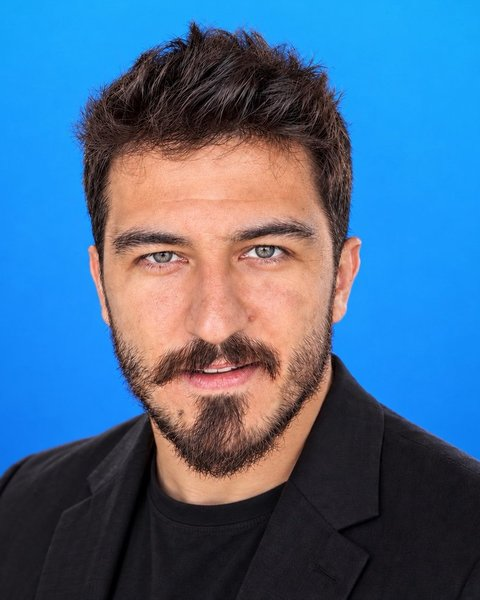
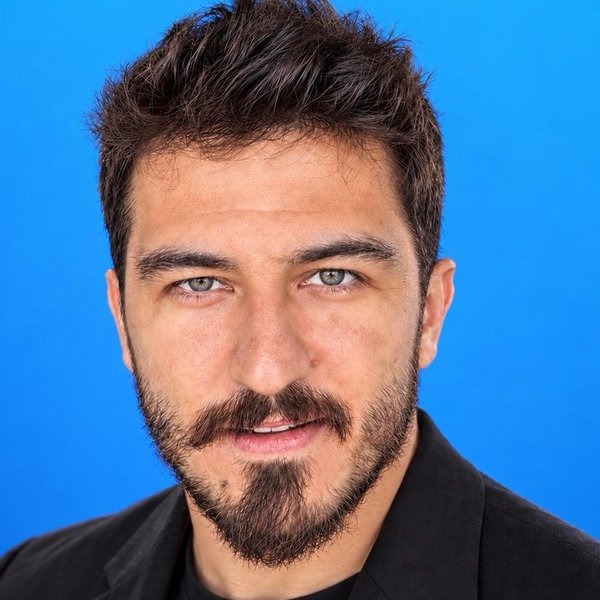
Academy: Cəfər Nəcəfovun kursu — ulduz formalı foto, ad və kurs mətni (AZ/EN)
Claude-Session: https://claude.ai/code/session_012qHs8kvniUjVjktTYL2tXd

diff --git a/en/index.html b/en/index.html
@@ -503,10 +503,12 @@ section.band{padding-block:clamp(64px,8vw,112px)}
 .aslide.is-on{animation:asIn .55s cubic-bezier(.2,.8,.2,1) both}
 @keyframes asIn{from{opacity:0;transform:translateX(18px)}to{opacity:1;transform:none}}
 @media (prefers-reduced-motion:reduce){.aslide.is-on{animation:none}}
-.aph{margin:0 0 22px;width:clamp(120px,14vw,160px);aspect-ratio:4/5;border-radius:20px;overflow:hidden;background:#D6D0C6}
-.aph img{width:100%;height:100%;object-fit:cover;display:block;filter:grayscale(1)}
-.aph.empty img{display:none}
-.aname{font:400 20px var(--display);margin-top:10px}
+.atr{display:flex;align-items:center;gap:18px;margin:18px 0 26px}
+.astar{margin:0;width:clamp(120px,12vw,150px);aspect-ratio:1;flex:none;clip-path:polygon(50.0% 4.0%,65.9% 32.2%,97.6% 38.5%,75.7% 62.3%,79.4% 94.5%,50.0% 81.0%,20.6% 94.5%,24.3% 62.3%,2.4% 38.5%,34.1% 32.2%);background:#D6D0C6}
+.astar img{width:100%;height:100%;object-fit:cover;display:block;filter:grayscale(1)}
+.atr-n{display:block;font:400 clamp(22px,2.2vw,28px)/1.15 var(--display);letter-spacing:-.02em}
+.atr-r{display:block;font-size:14px;color:var(--muted);margin-top:4px}
+.academy .h2c{font-size:clamp(30px,3.4vw,44px);line-height:1.08}
 .anav{display:flex;align-items:center;gap:10px;margin-top:clamp(28px,4vw,44px);padding-top:18px;border-top:1px solid var(--rule)}
 .acount{font:400 14px var(--display);color:var(--muted);letter-spacing:.04em}
 .acount b{color:var(--ink);font-weight:500}
@@ -672,12 +674,11 @@ footer{background:var(--night);color:#8A8A8A;padding-block:clamp(20px,2.5vw,32px
       <div class="aslide is-on" id="as-cn" role="group" aria-roledescription="slide" aria-label="1 / 2">
       <div class="agrid">
         <div class="aintro">
-          <figure class="aph"><img src="/img/academy/cefer-necefov.jpg" alt="Cəfər Nəcəfov" width="160" height="200" loading="lazy" onerror="this.parentNode.classList.add('empty')"></figure>
           <p class="kicker" data-i="cn.k">Blogstar Academy · Fərdi təlim</p>
-          <h2 class="h2" id="at-cn">Cəfər Nəcəfov</h2>
-          <p class="aname" data-i="cn.t">[Kursun adı]</p>
-          <p class="alead" data-i="cn.lead">[Kursun qısa təsviri]</p>
-          <ul class="afmt"><li data-i="cn.f1">[Format]</li><li data-i="cn.f2">[Müddət]</li><li data-i="cn.f3">[Məkan]</li></ul>
+          <div class="atr"><figure class="astar"><img src="/img/academy/cefer-necefov.jpg" alt="Cəfər Nəcəfov" width="600" height="600" loading="lazy"></figure><div><b class="atr-n">Cəfər Nəcəfov</b><span class="atr-r" data-i="cn.r">Təlimçi</span></div></div>
+          <h2 class="h2 h2c" id="at-cn" data-i="cn.t">Instagramın sirləri: alqoritm, alətlər və süni intellekt</h2>
+          <p class="alead" data-i="cn.lead">Instagramın işləmə prinsiplərini dərindən öyrədən fərdi təlim. Alqoritmin məntiqi, platformanın az bilinən imkanları və süni intellekt əsaslı alətlərlə kontent hazırlanması praktik nümunələr üzərində izah olunur.</p>
+          <ul class="afmt"><li data-i="cn.f1">Instagram alqoritmi</li><li data-i="cn.f2">AI alətləri</li><li data-i="cn.f3">Platformanın gizli imkanları</li></ul>
         </div>
         <form class="aform" id="acad-cn" name="academy" method="POST" novalidate>
           <input type="hidden" name="form-name" value="academy">
@@ -1456,7 +1457,7 @@ az:{
  "ac.2":"Kontent istehsalı","ac.2t":"Reels üçün ssenari, çəkiliş və montaj",
  "ac.3":"Auditoriya","ac.3t":"Statistikanın təhlili və artım strategiyası",
  "ac.4":"Brendlərlə əməkdaşlıq","ac.4t":"Qiymət təklifi, razılaşma və hesabatlılıq",
- "ac.prog":"Proqramın tam məzmunu","ac.reg":"Qeydiyyat","cn.k":"Blogstar Academy · Fərdi təlim","cn.t":"[Kursun adı]","cn.lead":"[Kursun qısa təsviri]","cn.f1":"[Format]","cn.f2":"[Müddət]","cn.f3":"[Məkan]","cn.regp":"Kursun tarixi və məkanı barədə sizə məlumat veriləcək.","cn.join":"Kursa qoşulun","cn.prev":"Əvvəlki","cn.next":"Növbəti","ac.regp":"Növbəti qrup formalaşdıqda tarix və məkan barədə sizə məlumat veriləcək.","pg.cta":"Qeydiyyatdan keçin","pg.admp":"Seçim iki mərhələdə aparılır: qeydiyyatdan keçən namizədlər birinci turdan sonra müsahibəyə dəvət olunur və müsahibənin nəticəsinə əsasən proqramda iştirak hüququ qazanır. Təlimin ödənişi barədə məlumat müraciət edənlərə fərdi qaydada təqdim edilir.","pg.adm":"Qəbul qaydası","pg.g":["Sosial mediada düzgün mövqe tutmaq", "Planlı və keyfiyyətli kontent yaratmaq", "Auditoriya formalaşdırmaq", "Şəxsi brend qurmaq", "Brendlərlə əməkdaşlıq etmək", "Sosial mediada peşəkar görünmək", "Gəlir əldə etmə mexanizmlərini mənimsəmək"],"pg.gain":"Proqramın nəticəsində","pg.w":["Influencer olmaq istəyənlər", "Sosial mediada aktiv olan, lakin aydın strategiyası olmayanlar", "Şəxsi brend yaratmaq istəyənlər", "Sosial mediadan gəlir əldə etməyi hədəfləyənlər", "Bu sahədə peşəkar inkişaf etmək istəyən hər kəs"],"pg.who":"Proqram kimlər üçündür","pg.c3":"Yerlər məhduddur","pg.c2":"Son qeydiyyat: 29 noyabr","pg.c1":"Müddət: 1,5–2 ay","pg.lead":"Metamorphosis sosial mediada peşəkar inkişaf etmək istəyənlər üçün hazırlanmış modullu təlim proqramıdır. Proqram nəzəri bilikləri və praktik bacarıqları birləşdirir və iştirakçını başlanğıc səviyyədən peşəkar səviyyəyə qədər inkişaf etdirməyi hədəfləyir.","pg.men":"Mentorlar","pg.c0":"6-cı mövsüm","pg.t":"Metamorphosis təlim proqramı","ac.more":"Ətraflı","ac.m8t":"Şəxsi saytın hazırlanması və gəlir əldə etmə modelləri","ac.m8":"Texniki alətlər və gəlir modelləri","ac.m7t":"Səhifənin düzgün idarəsi, mənfi rəylərlə iş və icmanın formalaşdırılması","ac.m7":"Səhifə və icma idarəçiliyi","ac.m6t":"Marketinqin əsasları, reach və engagement göstəricilərinin artırılması","ac.m6":"Rəqəmsal marketinq","ac.m5t":"Brendinqin əsasları, brend qurmağın mərhələləri və vizual kimlik","ac.m5":"Brendinq və şəxsi brend","ac.m4t":"Videoqrafiyanın incəlikləri, detal və food fotoqrafiyası, vizual estetika","ac.m4":"Fotoqrafiya və videoqrafiya","ac.m3t":"Kontentin tərtibi, story formatları və auditoriya ilə bağ qurmaq","ac.m3":"Kontent və storytelling","ac.m2t":"Instagram alqoritmi, məzmun məntiqi və süni intellektdən istifadə","ac.m2":"Alqoritmlər və AI alətləri","ac.m1t":"Influencer fəaliyyətinin formatları; food, fashion və travel istiqamətləri; nişin seçilməsi","ac.m1":"Kontent yaradıcılığının əsasları","ac.join":"Influencer School-a qoşulun","ac.regbtn":"Qeydiyyatdan keçin",
+ "ac.prog":"Proqramın tam məzmunu","ac.reg":"Qeydiyyat","cn.k":"Blogstar Academy · Fərdi təlim","cn.r":"Təlimçi","cn.t":"Instagramın sirləri: alqoritm, alətlər və süni intellekt","cn.lead":"Instagramın işləmə prinsiplərini dərindən öyrədən fərdi təlim. Alqoritmin məntiqi, platformanın az bilinən imkanları və süni intellekt əsaslı alətlərlə kontent hazırlanması praktik nümunələr üzərində izah olunur.","cn.f1":"Instagram alqoritmi","cn.f2":"AI alətləri","cn.f3":"Platformanın gizli imkanları","cn.regp":"Kursun tarixi və məkanı barədə sizə məlumat veriləcək.","cn.join":"Kursa qoşulun","cn.prev":"Əvvəlki","cn.next":"Növbəti","ac.regp":"Növbəti qrup formalaşdıqda tarix və məkan barədə sizə məlumat veriləcək.","pg.cta":"Qeydiyyatdan keçin","pg.admp":"Seçim iki mərhələdə aparılır: qeydiyyatdan keçən namizədlər birinci turdan sonra müsahibəyə dəvət olunur və müsahibənin nəticəsinə əsasən proqramda iştirak hüququ qazanır. Təlimin ödənişi barədə məlumat müraciət edənlərə fərdi qaydada təqdim edilir.","pg.adm":"Qəbul qaydası","pg.g":["Sosial mediada düzgün mövqe tutmaq", "Planlı və keyfiyyətli kontent yaratmaq", "Auditoriya formalaşdırmaq", "Şəxsi brend qurmaq", "Brendlərlə əməkdaşlıq etmək", "Sosial mediada peşəkar görünmək", "Gəlir əldə etmə mexanizmlərini mənimsəmək"],"pg.gain":"Proqramın nəticəsində","pg.w":["Influencer olmaq istəyənlər", "Sosial mediada aktiv olan, lakin aydın strategiyası olmayanlar", "Şəxsi brend yaratmaq istəyənlər", "Sosial mediadan gəlir əldə etməyi hədəfləyənlər", "Bu sahədə peşəkar inkişaf etmək istəyən hər kəs"],"pg.who":"Proqram kimlər üçündür","pg.c3":"Yerlər məhduddur","pg.c2":"Son qeydiyyat: 29 noyabr","pg.c1":"Müddət: 1,5–2 ay","pg.lead":"Metamorphosis sosial mediada peşəkar inkişaf etmək istəyənlər üçün hazırlanmış modullu təlim proqramıdır. Proqram nəzəri bilikləri və praktik bacarıqları birləşdirir və iştirakçını başlanğıc səviyyədən peşəkar səviyyəyə qədər inkişaf etdirməyi hədəfləyir.","pg.men":"Mentorlar","pg.c0":"6-cı mövsüm","pg.t":"Metamorphosis təlim proqramı","ac.more":"Ətraflı","ac.m8t":"Şəxsi saytın hazırlanması və gəlir əldə etmə modelləri","ac.m8":"Texniki alətlər və gəlir modelləri","ac.m7t":"Səhifənin düzgün idarəsi, mənfi rəylərlə iş və icmanın formalaşdırılması","ac.m7":"Səhifə və icma idarəçiliyi","ac.m6t":"Marketinqin əsasları, reach və engagement göstəricilərinin artırılması","ac.m6":"Rəqəmsal marketinq","ac.m5t":"Brendinqin əsasları, brend qurmağın mərhələləri və vizual kimlik","ac.m5":"Brendinq və şəxsi brend","ac.m4t":"Videoqrafiyanın incəlikləri, detal və food fotoqrafiyası, vizual estetika","ac.m4":"Fotoqrafiya və videoqrafiya","ac.m3t":"Kontentin tərtibi, story formatları və auditoriya ilə bağ qurmaq","ac.m3":"Kontent və storytelling","ac.m2t":"Instagram alqoritmi, məzmun məntiqi və süni intellektdən istifadə","ac.m2":"Alqoritmlər və AI alətləri","ac.m1t":"Influencer fəaliyyətinin formatları; food, fashion və travel istiqamətləri; nişin seçilməsi","ac.m1":"Kontent yaradıcılığının əsasları","ac.join":"Influencer School-a qoşulun","ac.regbtn":"Qeydiyyatdan keçin",
  "f.fullname":"Ad və soyad","f.phone":"Telefon","f.exp":"Təcrübəniz","f.trk":"Maraqlandığınız istiqamət","f.trk1":"Tam proqram","f.trk2":"Fotoqrafiya","f.trk3":"Video və montaj","f.trk4":"Süni intellekt alətləri","f.trk5":"Şəxsi brend","f.exp1":"Yeni başlayıram","f.exp2":"Mütəmadi kontent yaradıram","f.exp3":"Brendlərlə əməkdaşlıq edirəm",
  "ct.k":"Əlaqə","ct.h":"Növbəti kampaniyanız <span>buradan başlayır.</span>","ct.copy":"Kopyala","ct.copied":"Kopyalandı","ct.addr":"Bakı, Azərbaycan · onlayn","ct.form":"Kampaniya sorğusu",
  "f.name":"Adınız","f.brand":"Brend","f.contact":"Telefon və ya e-poçt","f.about":"Kampaniya haqqında","f.aboutp":"Məhsul, nəzərdə tutulan tarixlər və təxmini büdcə","f.send":"Sorğunu göndərin",
@@ -1491,7 +1492,7 @@ en:{
  "ac.2":"Content production","ac.2t":"Scripting, filming and editing Reels",
  "ac.3":"Audience","ac.3t":"Analytics and growth strategy",
  "ac.4":"Working with brands","ac.4t":"Pricing, agreements and reporting",
- "ac.prog":"View the full programme","ac.reg":"Registration","cn.k":"Blogstar Academy · Individual course","cn.t":"[Course title]","cn.lead":"[Short course description]","cn.f1":"[Format]","cn.f2":"[Duration]","cn.f3":"[Venue]","cn.regp":"We will contact you with the course date and venue.","cn.join":"Join the course","cn.prev":"Previous","cn.next":"Next","ac.regp":"We will contact you with the date and venue once the next group is formed.","pg.cta":"Register","pg.admp":"Selection takes place in two stages: registered candidates who pass the first round are invited to an interview, and the interview determines admission to the programme. Fee details are provided individually to applicants.","pg.adm":"Admission","pg.g":["A clear position on social media", "Planned, high-quality content", "A growing audience", "A personal brand", "Working with brands", "A professional presence on social media", "An understanding of how to earn income"],"pg.gain":"What you will gain","pg.w":["Aspiring influencers", "People active on social media without a clear strategy", "Those who want to build a personal brand", "Those aiming to earn income from social media", "Anyone who wants to grow professionally in this field"],"pg.who":"Who the programme is for","pg.c3":"Limited places","pg.c2":"Registration closes: 29 November","pg.c1":"Duration: 1.5–2 months","pg.lead":"Metamorphosis is a modular training programme for those who want to grow professionally on social media. It combines theory with practical skills and aims to take participants from beginner to professional level.","pg.men":"Mentors","pg.c0":"Season 6","pg.t":"Metamorphosis training programme","ac.more":"Learn more","ac.m8t":"Building a personal website and models for earning income","ac.m8":"Technical tools and income models","ac.m7t":"Managing a page well, handling negative feedback and building a community","ac.m7":"Page and community management","ac.m6t":"Marketing fundamentals, growing reach and engagement","ac.m6":"Digital marketing","ac.m5t":"Branding fundamentals, the stages of building a brand and visual identity","ac.m5":"Branding and personal brand","ac.m4t":"Videography techniques, detail and food photography, visual aesthetics","ac.m4":"Photography and videography","ac.m3t":"Planning content, story formats and building a bond with the audience","ac.m3":"Content and storytelling","ac.m2t":"The Instagram algorithm, content logic and using AI","ac.m2":"Algorithms and AI tools","ac.m1t":"Influencer formats; food, fashion and travel; choosing a niche","ac.m1":"Foundations of content creation","ac.join":"Join Influencer School","ac.regbtn":"Register",
+ "ac.prog":"View the full programme","ac.reg":"Registration","cn.k":"Blogstar Academy · Individual course","cn.r":"Instructor","cn.t":"Inside Instagram: the algorithm, tools and AI","cn.lead":"An individual course that explains in depth how Instagram works. The logic of the algorithm, the platform's lesser-known features and AI-powered content tools are covered through practical examples.","cn.f1":"Instagram algorithm","cn.f2":"AI tools","cn.f3":"Hidden platform features","cn.regp":"We will contact you with the course date and venue.","cn.join":"Join the course","cn.prev":"Previous","cn.next":"Next","ac.regp":"We will contact you with the date and venue once the next group is formed.","pg.cta":"Register","pg.admp":"Selection takes place in two stages: registered candidates who pass the first round are invited to an interview, and the interview determines admission to the programme. Fee details are provided individually to applicants.","pg.adm":"Admission","pg.g":["A clear position on social media", "Planned, high-quality content", "A growing audience", "A personal brand", "Working with brands", "A professional presence on social media", "An understanding of how to earn income"],"pg.gain":"What you will gain","pg.w":["Aspiring influencers", "People active on social media without a clear strategy", "Those who want to build a personal brand", "Those aiming to earn income from social media", "Anyone who wants to grow professionally in this field"],"pg.who":"Who the programme is for","pg.c3":"Limited places","pg.c2":"Registration closes: 29 November","pg.c1":"Duration: 1.5–2 months","pg.lead":"Metamorphosis is a modular training programme for those who want to grow professionally on social media. It combines theory with practical skills and aims to take participants from beginner to professional level.","pg.men":"Mentors","pg.c0":"Season 6","pg.t":"Metamorphosis training programme","ac.more":"Learn more","ac.m8t":"Building a personal website and models for earning income","ac.m8":"Technical tools and income models","ac.m7t":"Managing a page well, handling negative feedback and building a community","ac.m7":"Page and community management","ac.m6t":"Marketing fundamentals, growing reach and engagement","ac.m6":"Digital marketing","ac.m5t":"Branding fundamentals, the stages of building a brand and visual identity","ac.m5":"Branding and personal brand","ac.m4t":"Videography techniques, detail and food photography, visual aesthetics","ac.m4":"Photography and videography","ac.m3t":"Planning content, story formats and building a bond with the audience","ac.m3":"Content and storytelling","ac.m2t":"The Instagram algorithm, content logic and using AI","ac.m2":"Algorithms and AI tools","ac.m1t":"Influencer formats; food, fashion and travel; choosing a niche","ac.m1":"Foundations of content creation","ac.join":"Join Influencer School","ac.regbtn":"Register",
  "f.fullname":"Full name","f.phone":"Phone","f.exp":"Your experience","f.trk":"Area of interest","f.trk1":"Full programme","f.trk2":"Photography","f.trk3":"Video and editing","f.trk4":"AI tools","f.trk5":"Personal brand","f.exp1":"I'm just starting out","f.exp2":"I create content regularly","f.exp3":"I already work with brands",
  "ct.k":"Contact","ct.h":"Your next campaign <span>starts here.</span>","ct.copy":"Copy","ct.copied":"Copied","ct.addr":"Baku, Azerbaijan · online","ct.form":"Campaign enquiry",
  "f.name":"Your name","f.brand":"Brand","f.contact":"Phone or email","f.about":"About the campaign","f.aboutp":"Product, preferred dates and estimated budget","f.send":"Send enquiry",

diff --git a/index.html b/index.html
@@ -503,10 +503,12 @@ section.band{padding-block:clamp(64px,8vw,112px)}
 .aslide.is-on{animation:asIn .55s cubic-bezier(.2,.8,.2,1) both}
 @keyframes asIn{from{opacity:0;transform:translateX(18px)}to{opacity:1;transform:none}}
 @media (prefers-reduced-motion:reduce){.aslide.is-on{animation:none}}
-.aph{margin:0 0 22px;width:clamp(120px,14vw,160px);aspect-ratio:4/5;border-radius:20px;overflow:hidden;background:#D6D0C6}
-.aph img{width:100%;height:100%;object-fit:cover;display:block;filter:grayscale(1)}
-.aph.empty img{display:none}
-.aname{font:400 20px var(--display);margin-top:10px}
+.atr{display:flex;align-items:center;gap:18px;margin:18px 0 26px}
+.astar{margin:0;width:clamp(120px,12vw,150px);aspect-ratio:1;flex:none;clip-path:polygon(50.0% 4.0%,65.9% 32.2%,97.6% 38.5%,75.7% 62.3%,79.4% 94.5%,50.0% 81.0%,20.6% 94.5%,24.3% 62.3%,2.4% 38.5%,34.1% 32.2%);background:#D6D0C6}
+.astar img{width:100%;height:100%;object-fit:cover;display:block;filter:grayscale(1)}
+.atr-n{display:block;font:400 clamp(22px,2.2vw,28px)/1.15 var(--display);letter-spacing:-.02em}
+.atr-r{display:block;font-size:14px;color:var(--muted);margin-top:4px}
+.academy .h2c{font-size:clamp(30px,3.4vw,44px);line-height:1.08}
 .anav{display:flex;align-items:center;gap:10px;margin-top:clamp(28px,4vw,44px);padding-top:18px;border-top:1px solid var(--rule)}
 .acount{font:400 14px var(--display);color:var(--muted);letter-spacing:.04em}
 .acount b{color:var(--ink);font-weight:500}
@@ -672,12 +674,11 @@ footer{background:var(--night);color:#8A8A8A;padding-block:clamp(20px,2.5vw,32px
       <div class="aslide is-on" id="as-cn" role="group" aria-roledescription="slide" aria-label="1 / 2">
       <div class="agrid">
         <div class="aintro">
-          <figure class="aph"><img src="/img/academy/cefer-necefov.jpg" alt="Cəfər Nəcəfov" width="160" height="200" loading="lazy" onerror="this.parentNode.classList.add('empty')"></figure>
           <p class="kicker" data-i="cn.k">Blogstar Academy · Fərdi təlim</p>
-          <h2 class="h2" id="at-cn">Cəfər Nəcəfov</h2>
-          <p class="aname" data-i="cn.t">[Kursun adı]</p>
-          <p class="alead" data-i="cn.lead">[Kursun qısa təsviri]</p>
-          <ul class="afmt"><li data-i="cn.f1">[Format]</li><li data-i="cn.f2">[Müddət]</li><li data-i="cn.f3">[Məkan]</li></ul>
+          <div class="atr"><figure class="astar"><img src="/img/academy/cefer-necefov.jpg" alt="Cəfər Nəcəfov" width="600" height="600" loading="lazy"></figure><div><b class="atr-n">Cəfər Nəcəfov</b><span class="atr-r" data-i="cn.r">Təlimçi</span></div></div>
+          <h2 class="h2 h2c" id="at-cn" data-i="cn.t">Instagramın sirləri: alqoritm, alətlər və süni intellekt</h2>
+          <p class="alead" data-i="cn.lead">Instagramın işləmə prinsiplərini dərindən öyrədən fərdi təlim. Alqoritmin məntiqi, platformanın az bilinən imkanları və süni intellekt əsaslı alətlərlə kontent hazırlanması praktik nümunələr üzərində izah olunur.</p>
+          <ul class="afmt"><li data-i="cn.f1">Instagram alqoritmi</li><li data-i="cn.f2">AI alətləri</li><li data-i="cn.f3">Platformanın gizli imkanları</li></ul>
         </div>
         <form class="aform" id="acad-cn" name="academy" method="POST" novalidate>
           <input type="hidden" name="form-name" value="academy">
@@ -1456,7 +1457,7 @@ az:{
  "ac.2":"Kontent istehsalı","ac.2t":"Reels üçün ssenari, çəkiliş və montaj",
  "ac.3":"Auditoriya","ac.3t":"Statistikanın təhlili və artım strategiyası",
  "ac.4":"Brendlərlə əməkdaşlıq","ac.4t":"Qiymət təklifi, razılaşma və hesabatlılıq",
- "ac.prog":"Proqramın tam məzmunu","ac.reg":"Qeydiyyat","cn.k":"Blogstar Academy · Fərdi təlim","cn.t":"[Kursun adı]","cn.lead":"[Kursun qısa təsviri]","cn.f1":"[Format]","cn.f2":"[Müddət]","cn.f3":"[Məkan]","cn.regp":"Kursun tarixi və məkanı barədə sizə məlumat veriləcək.","cn.join":"Kursa qoşulun","cn.prev":"Əvvəlki","cn.next":"Növbəti","ac.regp":"Növbəti qrup formalaşdıqda tarix və məkan barədə sizə məlumat veriləcək.","pg.cta":"Qeydiyyatdan keçin","pg.admp":"Seçim iki mərhələdə aparılır: qeydiyyatdan keçən namizədlər birinci turdan sonra müsahibəyə dəvət olunur və müsahibənin nəticəsinə əsasən proqramda iştirak hüququ qazanır. Təlimin ödənişi barədə məlumat müraciət edənlərə fərdi qaydada təqdim edilir.","pg.adm":"Qəbul qaydası","pg.g":["Sosial mediada düzgün mövqe tutmaq", "Planlı və keyfiyyətli kontent yaratmaq", "Auditoriya formalaşdırmaq", "Şəxsi brend qurmaq", "Brendlərlə əməkdaşlıq etmək", "Sosial mediada peşəkar görünmək", "Gəlir əldə etmə mexanizmlərini mənimsəmək"],"pg.gain":"Proqramın nəticəsində","pg.w":["Influencer olmaq istəyənlər", "Sosial mediada aktiv olan, lakin aydın strategiyası olmayanlar", "Şəxsi brend yaratmaq istəyənlər", "Sosial mediadan gəlir əldə etməyi hədəfləyənlər", "Bu sahədə peşəkar inkişaf etmək istəyən hər kəs"],"pg.who":"Proqram kimlər üçündür","pg.c3":"Yerlər məhduddur","pg.c2":"Son qeydiyyat: 29 noyabr","pg.c1":"Müddət: 1,5–2 ay","pg.lead":"Metamorphosis sosial mediada peşəkar inkişaf etmək istəyənlər üçün hazırlanmış modullu təlim proqramıdır. Proqram nəzəri bilikləri və praktik bacarıqları birləşdirir və iştirakçını başlanğıc səviyyədən peşəkar səviyyəyə qədər inkişaf etdirməyi hədəfləyir.","pg.men":"Mentorlar","pg.c0":"6-cı mövsüm","pg.t":"Metamorphosis təlim proqramı","ac.more":"Ətraflı","ac.m8t":"Şəxsi saytın hazırlanması və gəlir əldə etmə modelləri","ac.m8":"Texniki alətlər və gəlir modelləri","ac.m7t":"Səhifənin düzgün idarəsi, mənfi rəylərlə iş və icmanın formalaşdırılması","ac.m7":"Səhifə və icma idarəçiliyi","ac.m6t":"Marketinqin əsasları, reach və engagement göstəricilərinin artırılması","ac.m6":"Rəqəmsal marketinq","ac.m5t":"Brendinqin əsasları, brend qurmağın mərhələləri və vizual kimlik","ac.m5":"Brendinq və şəxsi brend","ac.m4t":"Videoqrafiyanın incəlikləri, detal və food fotoqrafiyası, vizual estetika","ac.m4":"Fotoqrafiya və videoqrafiya","ac.m3t":"Kontentin tərtibi, story formatları və auditoriya ilə bağ qurmaq","ac.m3":"Kontent və storytelling","ac.m2t":"Instagram alqoritmi, məzmun məntiqi və süni intellektdən istifadə","ac.m2":"Alqoritmlər və AI alətləri","ac.m1t":"Influencer fəaliyyətinin formatları; food, fashion və travel istiqamətləri; nişin seçilməsi","ac.m1":"Kontent yaradıcılığının əsasları","ac.join":"Influencer School-a qoşulun","ac.regbtn":"Qeydiyyatdan keçin",
+ "ac.prog":"Proqramın tam məzmunu","ac.reg":"Qeydiyyat","cn.k":"Blogstar Academy · Fərdi təlim","cn.r":"Təlimçi","cn.t":"Instagramın sirləri: alqoritm, alətlər və süni intellekt","cn.lead":"Instagramın işləmə prinsiplərini dərindən öyrədən fərdi təlim. Alqoritmin məntiqi, platformanın az bilinən imkanları və süni intellekt əsaslı alətlərlə kontent hazırlanması praktik nümunələr üzərində izah olunur.","cn.f1":"Instagram alqoritmi","cn.f2":"AI alətləri","cn.f3":"Platformanın gizli imkanları","cn.regp":"Kursun tarixi və məkanı barədə sizə məlumat veriləcək.","cn.join":"Kursa qoşulun","cn.prev":"Əvvəlki","cn.next":"Növbəti","ac.regp":"Növbəti qrup formalaşdıqda tarix və məkan barədə sizə məlumat veriləcək.","pg.cta":"Qeydiyyatdan keçin","pg.admp":"Seçim iki mərhələdə aparılır: qeydiyyatdan keçən namizədlər birinci turdan sonra müsahibəyə dəvət olunur və müsahibənin nəticəsinə əsasən proqramda iştirak hüququ qazanır. Təlimin ödənişi barədə məlumat müraciət edənlərə fərdi qaydada təqdim edilir.","pg.adm":"Qəbul qaydası","pg.g":["Sosial mediada düzgün mövqe tutmaq", "Planlı və keyfiyyətli kontent yaratmaq", "Auditoriya formalaşdırmaq", "Şəxsi brend qurmaq", "Brendlərlə əməkdaşlıq etmək", "Sosial mediada peşəkar görünmək", "Gəlir əldə etmə mexanizmlərini mənimsəmək"],"pg.gain":"Proqramın nəticəsində","pg.w":["Influencer olmaq istəyənlər", "Sosial mediada aktiv olan, lakin aydın strategiyası olmayanlar", "Şəxsi brend yaratmaq istəyənlər", "Sosial mediadan gəlir əldə etməyi hədəfləyənlər", "Bu sahədə peşəkar inkişaf etmək istəyən hər kəs"],"pg.who":"Proqram kimlər üçündür","pg.c3":"Yerlər məhduddur","pg.c2":"Son qeydiyyat: 29 noyabr","pg.c1":"Müddət: 1,5–2 ay","pg.lead":"Metamorphosis sosial mediada peşəkar inkişaf etmək istəyənlər üçün hazırlanmış modullu təlim proqramıdır. Proqram nəzəri bilikləri və praktik bacarıqları birləşdirir və iştirakçını başlanğıc səviyyədən peşəkar səviyyəyə qədər inkişaf etdirməyi hədəfləyir.","pg.men":"Mentorlar","pg.c0":"6-cı mövsüm","pg.t":"Metamorphosis təlim proqramı","ac.more":"Ətraflı","ac.m8t":"Şəxsi saytın hazırlanması və gəlir əldə etmə modelləri","ac.m8":"Texniki alətlər və gəlir modelləri","ac.m7t":"Səhifənin düzgün idarəsi, mənfi rəylərlə iş və icmanın formalaşdırılması","ac.m7":"Səhifə və icma idarəçiliyi","ac.m6t":"Marketinqin əsasları, reach və engagement göstəricilərinin artırılması","ac.m6":"Rəqəmsal marketinq","ac.m5t":"Brendinqin əsasları, brend qurmağın mərhələləri və vizual kimlik","ac.m5":"Brendinq və şəxsi brend","ac.m4t":"Videoqrafiyanın incəlikləri, detal və food fotoqrafiyası, vizual estetika","ac.m4":"Fotoqrafiya və videoqrafiya","ac.m3t":"Kontentin tərtibi, story formatları və auditoriya ilə bağ qurmaq","ac.m3":"Kontent və storytelling","ac.m2t":"Instagram alqoritmi, məzmun məntiqi və süni intellektdən istifadə","ac.m2":"Alqoritmlər və AI alətləri","ac.m1t":"Influencer fəaliyyətinin formatları; food, fashion və travel istiqamətləri; nişin seçilməsi","ac.m1":"Kontent yaradıcılığının əsasları","ac.join":"Influencer School-a qoşulun","ac.regbtn":"Qeydiyyatdan keçin",
  "f.fullname":"Ad və soyad","f.phone":"Telefon","f.exp":"Təcrübəniz","f.trk":"Maraqlandığınız istiqamət","f.trk1":"Tam proqram","f.trk2":"Fotoqrafiya","f.trk3":"Video və montaj","f.trk4":"Süni intellekt alətləri","f.trk5":"Şəxsi brend","f.exp1":"Yeni başlayıram","f.exp2":"Mütəmadi kontent yaradıram","f.exp3":"Brendlərlə əməkdaşlıq edirəm",
  "ct.k":"Əlaqə","ct.h":"Növbəti kampaniyanız <span>buradan başlayır.</span>","ct.copy":"Kopyala","ct.copied":"Kopyalandı","ct.addr":"Bakı, Azərbaycan · onlayn","ct.form":"Kampaniya sorğusu",
  "f.name":"Adınız","f.brand":"Brend","f.contact":"Telefon və ya e-poçt","f.about":"Kampaniya haqqında","f.aboutp":"Məhsul, nəzərdə tutulan tarixlər və təxmini büdcə","f.send":"Sorğunu göndərin",
@@ -1491,7 +1492,7 @@ en:{
  "ac.2":"Content production","ac.2t":"Scripting, filming and editing Reels",
  "ac.3":"Audience","ac.3t":"Analytics and growth strategy",
  "ac.4":"Working with brands","ac.4t":"Pricing, agreements and reporting",
- "ac.prog":"View the full programme","ac.reg":"Registration","cn.k":"Blogstar Academy · Individual course","cn.t":"[Course title]","cn.lead":"[Short course description]","cn.f1":"[Format]","cn.f2":"[Duration]","cn.f3":"[Venue]","cn.regp":"We will contact you with the course date and venue.","cn.join":"Join the course","cn.prev":"Previous","cn.next":"Next","ac.regp":"We will contact you with the date and venue once the next group is formed.","pg.cta":"Register","pg.admp":"Selection takes place in two stages: registered candidates who pass the first round are invited to an interview, and the interview determines admission to the programme. Fee details are provided individually to applicants.","pg.adm":"Admission","pg.g":["A clear position on social media", "Planned, high-quality content", "A growing audience", "A personal brand", "Working with brands", "A professional presence on social media", "An understanding of how to earn income"],"pg.gain":"What you will gain","pg.w":["Aspiring influencers", "People active on social media without a clear strategy", "Those who want to build a personal brand", "Those aiming to earn income from social media", "Anyone who wants to grow professionally in this field"],"pg.who":"Who the programme is for","pg.c3":"Limited places","pg.c2":"Registration closes: 29 November","pg.c1":"Duration: 1.5–2 months","pg.lead":"Metamorphosis is a modular training programme for those who want to grow professionally on social media. It combines theory with practical skills and aims to take participants from beginner to professional level.","pg.men":"Mentors","pg.c0":"Season 6","pg.t":"Metamorphosis training programme","ac.more":"Learn more","ac.m8t":"Building a personal website and models for earning income","ac.m8":"Technical tools and income models","ac.m7t":"Managing a page well, handling negative feedback and building a community","ac.m7":"Page and community management","ac.m6t":"Marketing fundamentals, growing reach and engagement","ac.m6":"Digital marketing","ac.m5t":"Branding fundamentals, the stages of building a brand and visual identity","ac.m5":"Branding and personal brand","ac.m4t":"Videography techniques, detail and food photography, visual aesthetics","ac.m4":"Photography and videography","ac.m3t":"Planning content, story formats and building a bond with the audience","ac.m3":"Content and storytelling","ac.m2t":"The Instagram algorithm, content logic and using AI","ac.m2":"Algorithms and AI tools","ac.m1t":"Influencer formats; food, fashion and travel; choosing a niche","ac.m1":"Foundations of content creation","ac.join":"Join Influencer School","ac.regbtn":"Register",
+ "ac.prog":"View the full programme","ac.reg":"Registration","cn.k":"Blogstar Academy · Individual course","cn.r":"Instructor","cn.t":"Inside Instagram: the algorithm, tools and AI","cn.lead":"An individual course that explains in depth how Instagram works. The logic of the algorithm, the platform's lesser-known features and AI-powered content tools are covered through practical examples.","cn.f1":"Instagram algorithm","cn.f2":"AI tools","cn.f3":"Hidden platform features","cn.regp":"We will contact you with the course date and venue.","cn.join":"Join the course","cn.prev":"Previous","cn.next":"Next","ac.regp":"We will contact you with the date and venue once the next group is formed.","pg.cta":"Register","pg.admp":"Selection takes place in two stages: registered candidates who pass the first round are invited to an interview, and the interview determines admission to the programme. Fee details are provided individually to applicants.","pg.adm":"Admission","pg.g":["A clear position on social media", "Planned, high-quality content", "A growing audience", "A personal brand", "Working with brands", "A professional presence on social media", "An understanding of how to earn income"],"pg.gain":"What you will gain","pg.w":["Aspiring influencers", "People active on social media without a clear strategy", "Those who want to build a personal brand", "Those aiming to earn income from social media", "Anyone who wants to grow professionally in this field"],"pg.who":"Who the programme is for","pg.c3":"Limited places","pg.c2":"Registration closes: 29 November","pg.c1":"Duration: 1.5–2 months","pg.lead":"Metamorphosis is a modular training programme for those who want to grow professionally on social media. It combines theory with practical skills and aims to take participants from beginner to professional level.","pg.men":"Mentors","pg.c0":"Season 6","pg.t":"Metamorphosis training programme","ac.more":"Learn more","ac.m8t":"Building a personal website and models for earning income","ac.m8":"Technical tools and income models","ac.m7t":"Managing a page well, handling negative feedback and building a community","ac.m7":"Page and community management","ac.m6t":"Marketing fundamentals, growing reach and engagement","ac.m6":"Digital marketing","ac.m5t":"Branding fundamentals, the stages of building a brand and visual identity","ac.m5":"Branding and personal brand","ac.m4t":"Videography techniques, detail and food photography, visual aesthetics","ac.m4":"Photography and videography","ac.m3t":"Planning content, story formats and building a bond with the audience","ac.m3":"Content and storytelling","ac.m2t":"The Instagram algorithm, content logic and using AI","ac.m2":"Algorithms and AI tools","ac.m1t":"Influencer formats; food, fashion and travel; choosing a niche","ac.m1":"Foundations of content creation","ac.join":"Join Influencer School","ac.regbtn":"Register",
  "f.fullname":"Full name","f.phone":"Phone","f.exp":"Your experience","f.trk":"Area of interest","f.trk1":"Full programme","f.trk2":"Photography","f.trk3":"Video and editing","f.trk4":"AI tools","f.trk5":"Personal brand","f.exp1":"I'm just starting out","f.exp2":"I create content regularly","f.exp3":"I already work with brands",
  "ct.k":"Contact","ct.h":"Your next campaign <span>starts here.</span>","ct.copy":"Copy","ct.copied":"Copied","ct.addr":"Baku, Azerbaijan · online","ct.form":"Campaign enquiry",
  "f.name":"Your name","f.brand":"Brand","f.contact":"Phone or email","f.about":"About the campaign","f.aboutp":"Product, preferred dates and estimated budget","f.send":"Send enquiry",
